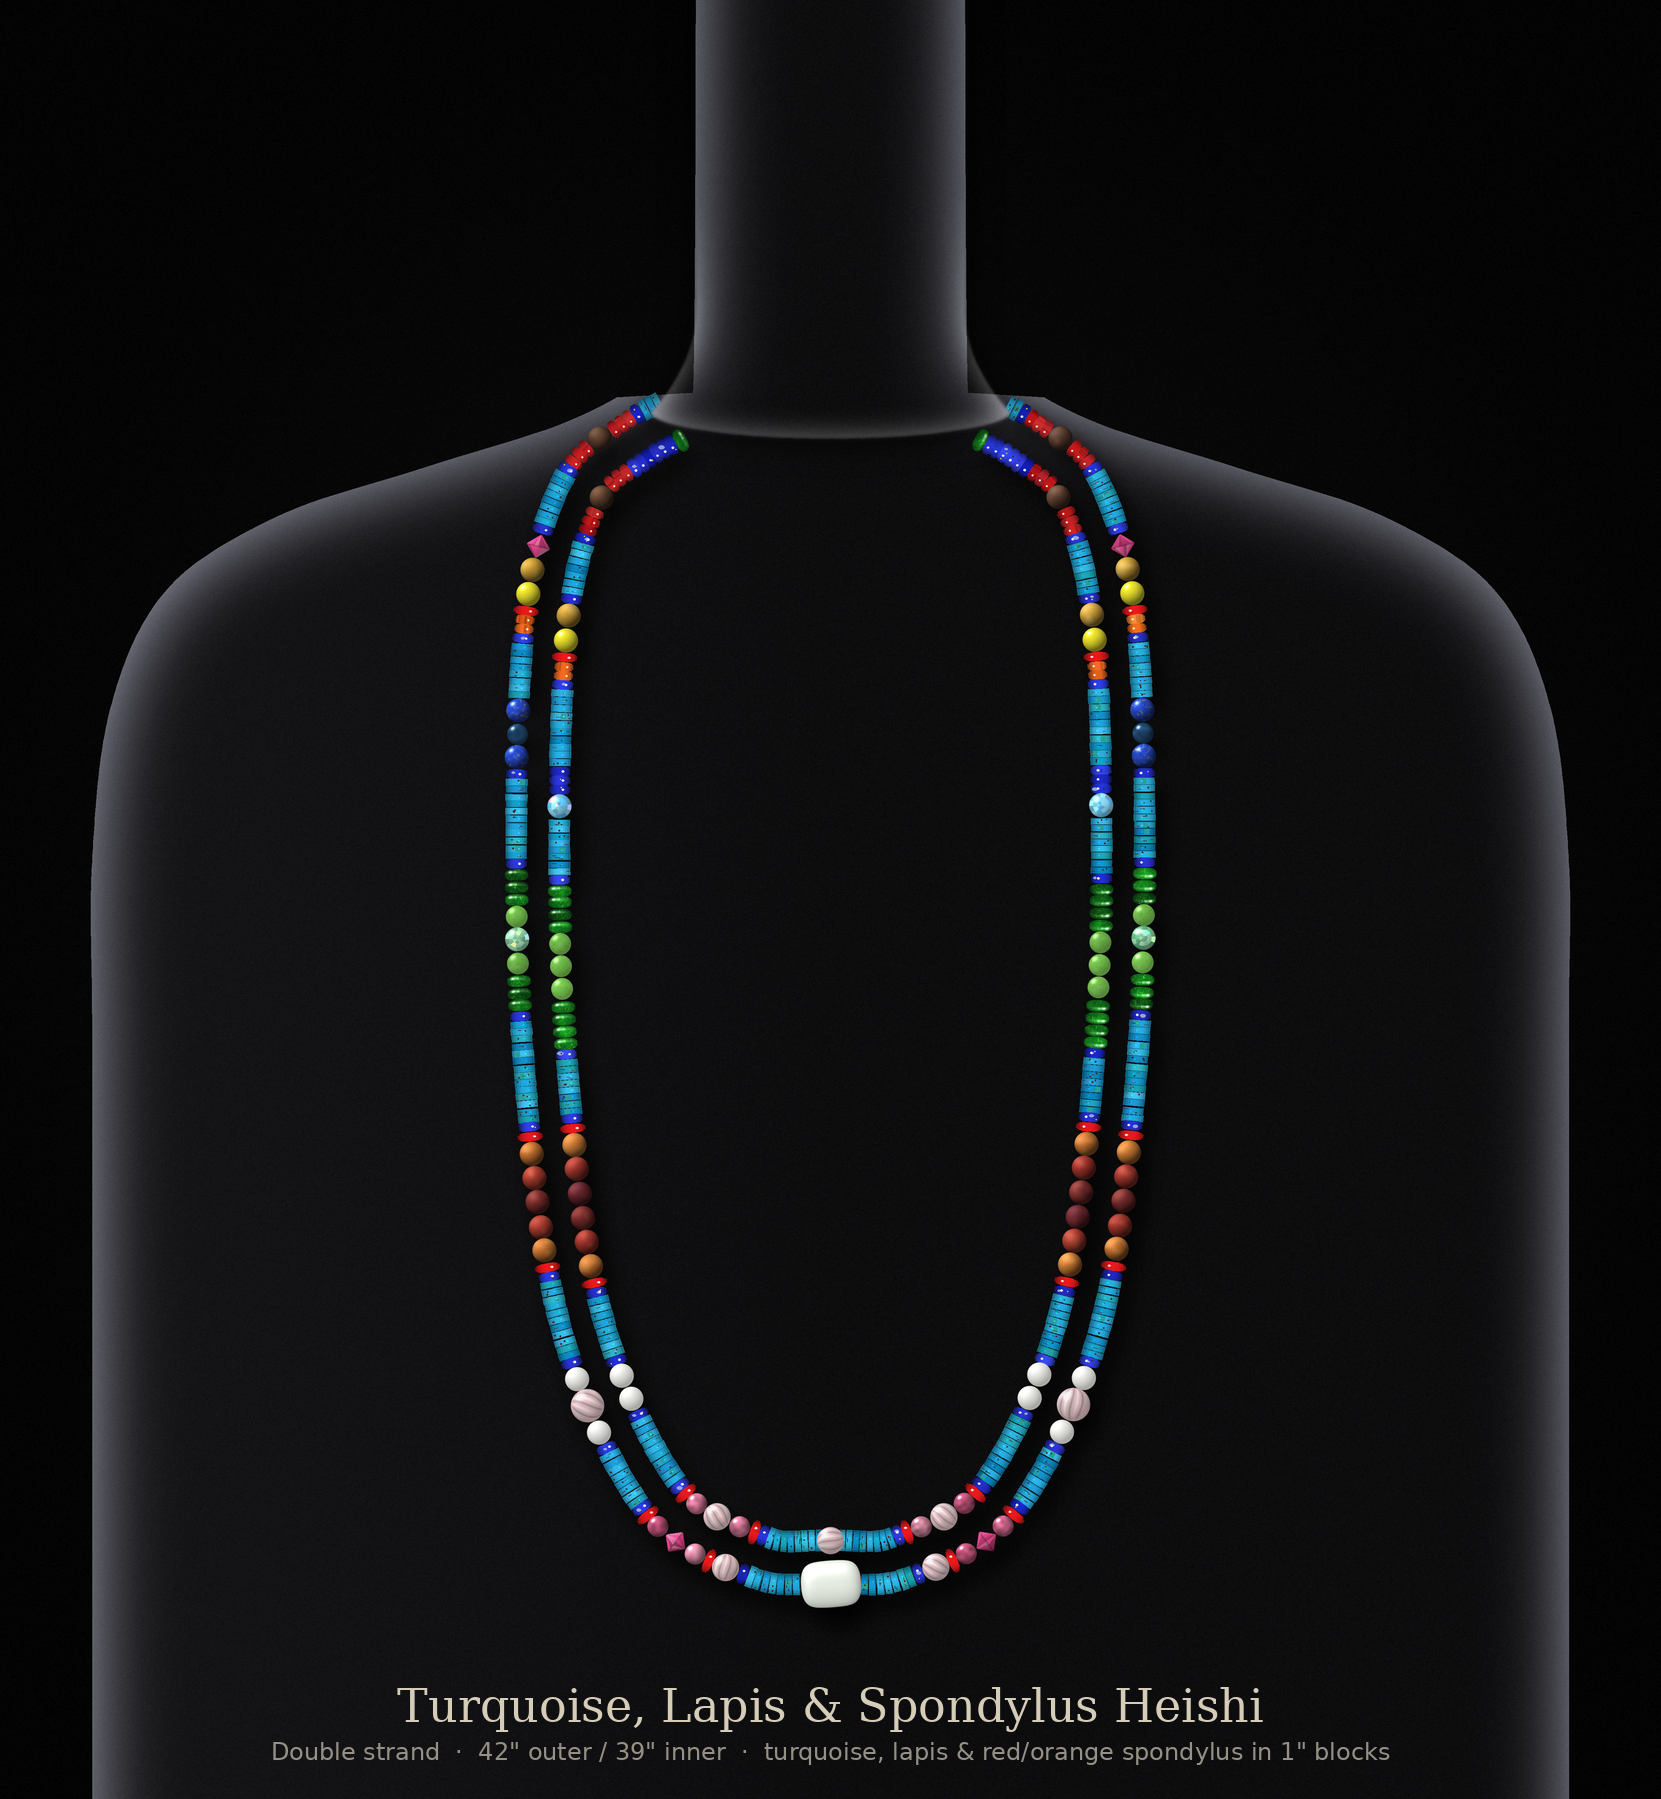
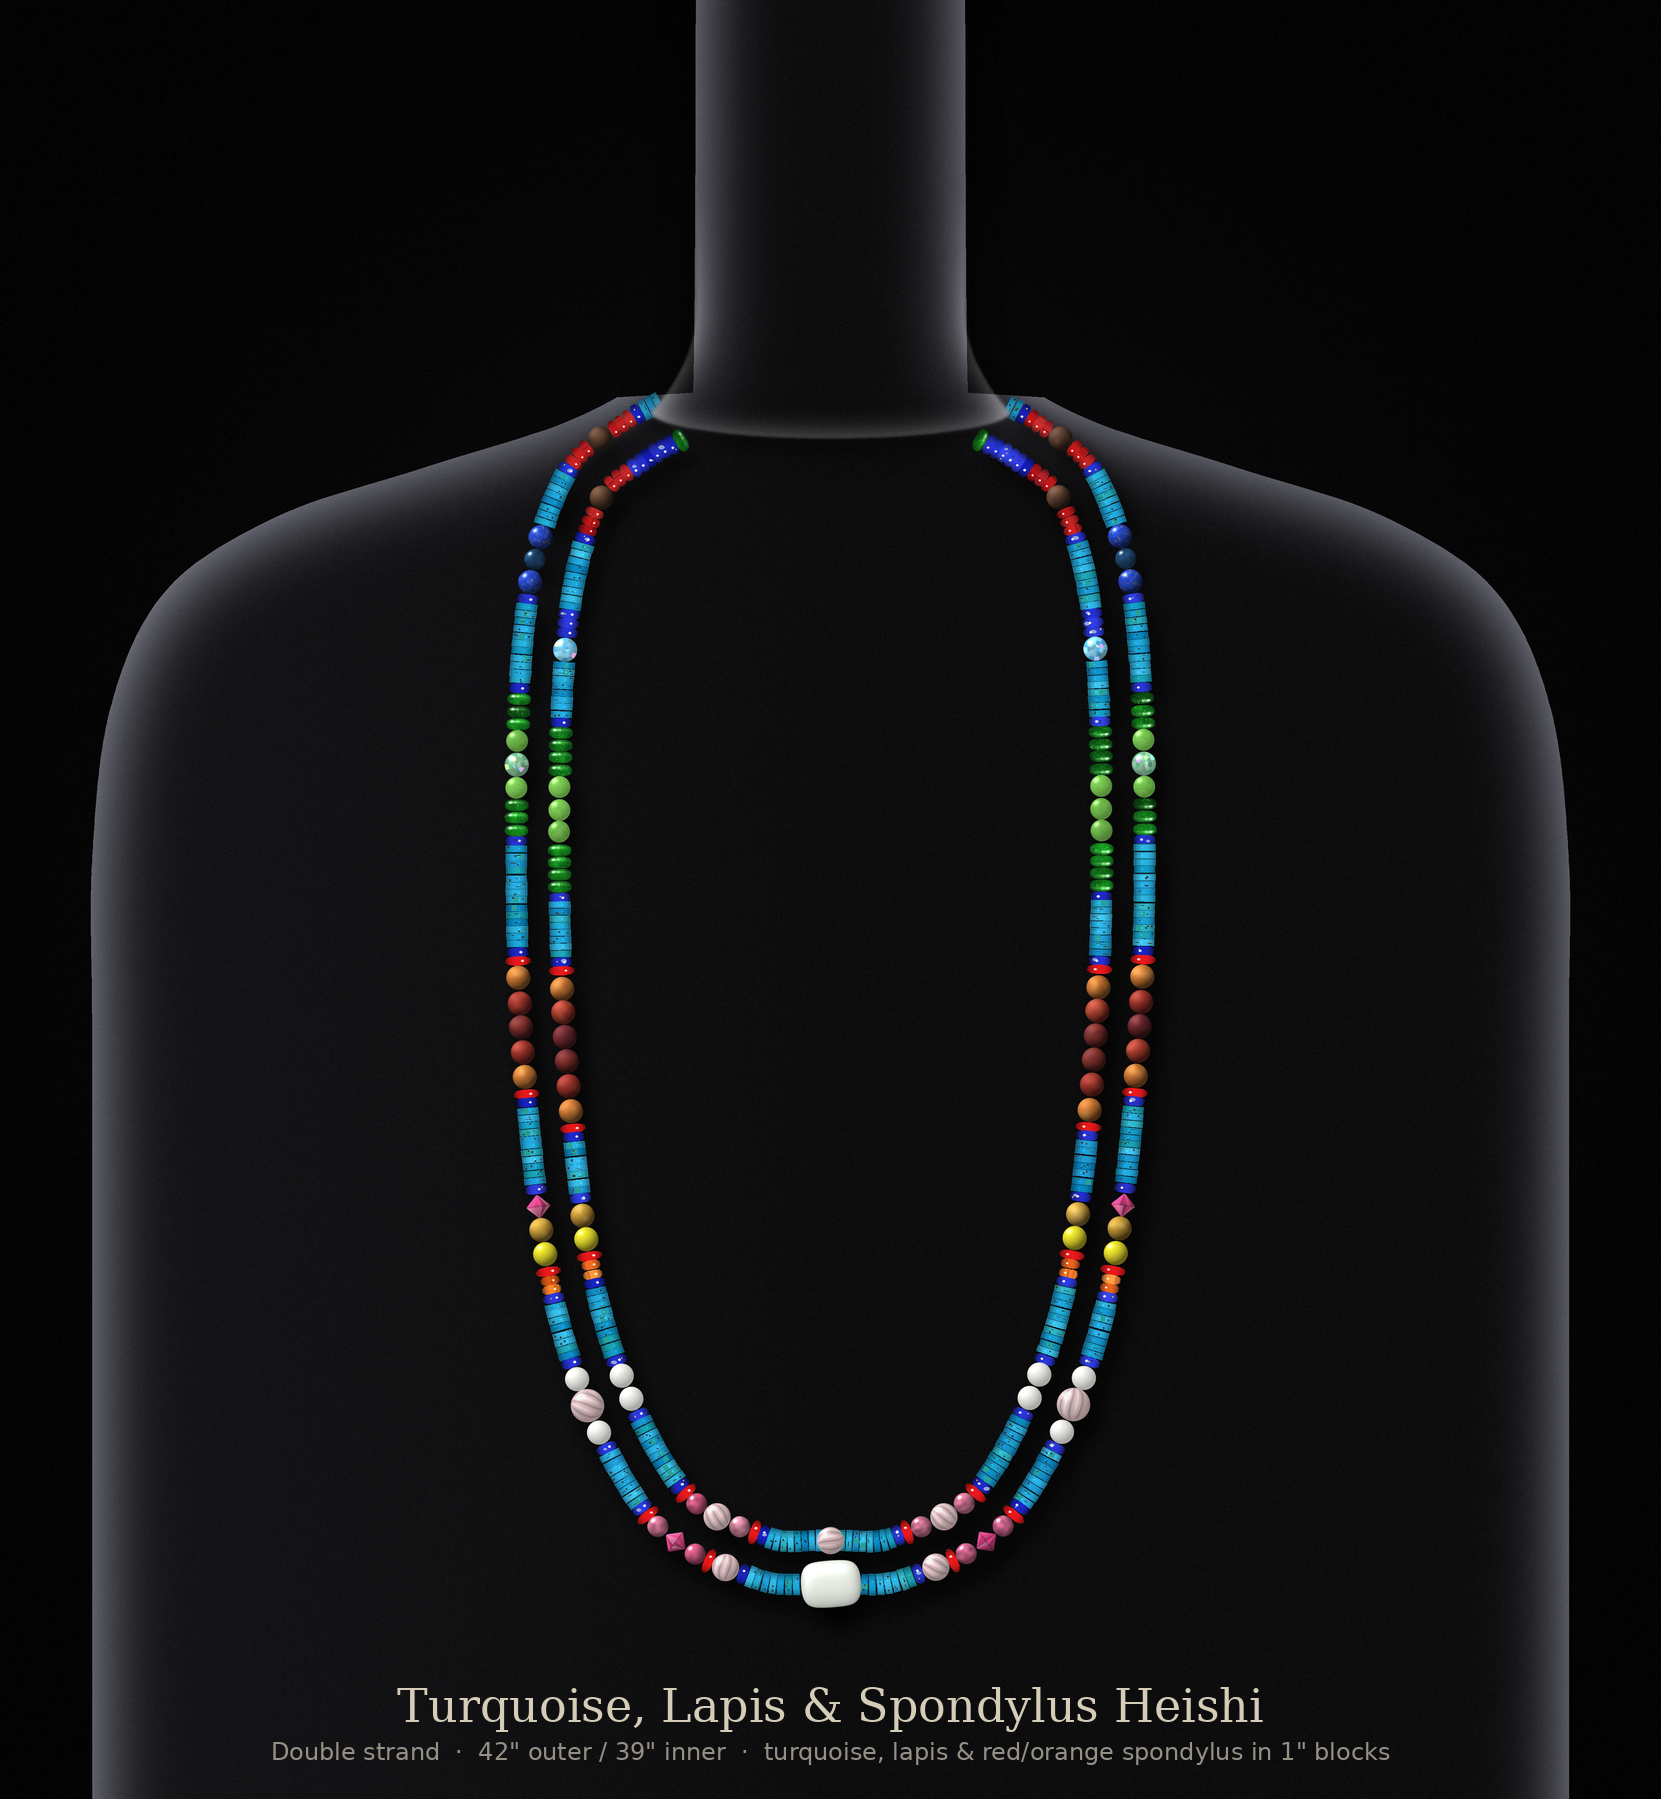
Version 5: yellow bands moved down between mookaite and white
Claude-Session: https://claude.ai/code/session_014be1vF4Rdf8sv9Si75Gudv

diff --git a/necklace/render_necklace.py b/necklace/render_necklace.py
@@ -983,6 +983,10 @@ if V4:
         # frame the green, red-orange and white bands with one lapis heishi at each end, both strands
         for _bi in (2, 3, 5, 6, 7, 8):   # red, yellow, green, red-orange, white, pink
             BANDS[_bi] = tuple(["lapisH"] + list(b) + ["lapisH"] for b in BANDS[_bi])
+        # yellow band moves down, between the mookaite (brown) band and the white band
+        _ord = [0, 1, 2, 4, 5, 6, 3, 7, 8]
+        BANDS = [BANDS[i] for i in _ord]
+        BANDS_PREV = [BANDS_PREV[i] for i in _ord]
     OUTER = [
         F(["olive"], "diop", 6),                                   # G (dark)
         ["tan"],                                                   # Y
@@ -1079,9 +1083,9 @@ if V4:
             last = Hs - (st0[-1] + w0[-1])
             widths = [sum(SZ[k] for k in stn) for stn in STN]
             first = Hs - sum(widths) - sum(mids) - last
-            if st == 1:                         # inner strand: green band (index 5) raised 4 mm
-                mids[4] -= 4.0
-                mids[5] += 4.0
+            if st == 1:                         # inner strand: green band raised 4 mm
+                mids[3] -= 4.0
+                mids[4] += 4.0
             if first < 3.0:                     # take the shortfall from the lapis run behind the neck, not turquoise
                 mids[0] -= 3.0 - first
                 first = 3.0
